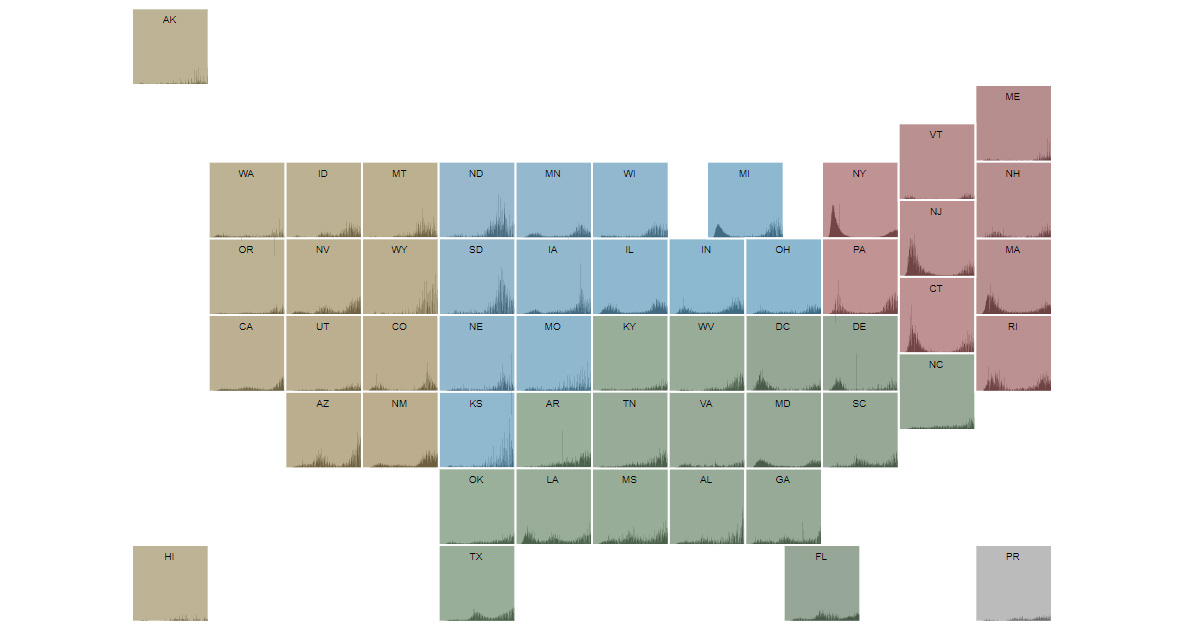
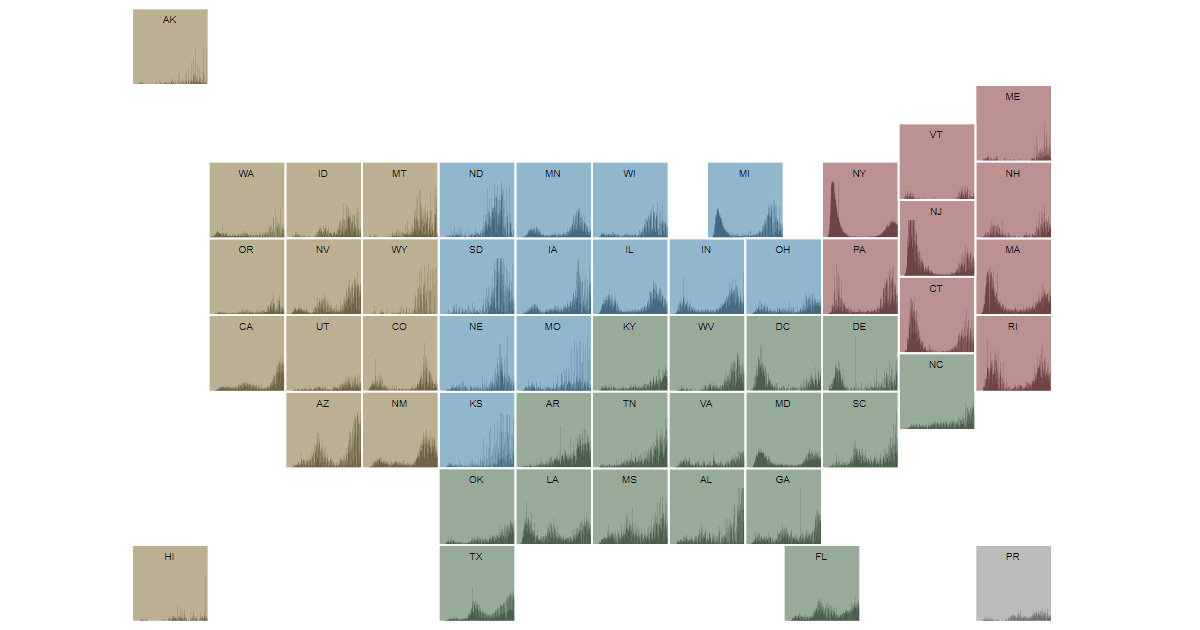
updated max capita calculation

diff --git a/statelayout.js b/statelayout.js
@@ -236,14 +236,29 @@ class StateLayout {
 
         this.maxCapita = 0;
 
-        for (const state in this.data) {
-            for (let i = 0; i < this.data[state].length; i++) {
-                if (this.data[state][i] && statePopulations[state]) {
-                    var maxCapita = this.y(this.data[state][i])/statePopulations[state];
-                    this.maxCapita = Math.max(this.maxCapita, maxCapita);
-                }
-            }
-        }
+        console.log("this.data", this.data);
+
+        //this.maxCapita = d3.max(Object.keys(this.data).map(key => IQRHigh(this.data[key].map(d => d.deaths / statePopulations[key]))))
+
+        this.maxCapita = d3.max(Object.keys(this.data).map(key => highOutlierCutoff(this.data[key].map(d => d.deaths / statePopulations[key]))))
+
+        //this.maxCapita = 0.00003
+
+        console.log(this.maxCapita)
+
+        // let perCapitaData = []
+
+        // for (const state in this.data) {
+        //     for (let i = 0; i < this.data[state].length; i++) {
+        //         if (this.data[state][i] && statePopulations[state]) {
+        //             var maxCapita = this.y(this.data[state][i])/statePopulations[state];
+        //             this.maxCapita = Math.max(this.maxCapita, maxCapita);
+        //             perCapitaData.push(maxCapita)
+        //         }
+        //     }
+        // }
+
+        
 
         this.draw();
     }
@@ -357,7 +372,10 @@ class StateLayout {
         ]
 
         stateTileCoords.forEach(d => {
-            let yScale = d3.scaleLinear().domain([0, statePopulations[d.state]*this.maxCapita]).range([this.boxSize, 0])
+            let yScale = d3.scaleLinear()
+                .domain([0, statePopulations[d.state]*this.maxCapita])
+                .range([this.boxSize, 0])
+                .clamp(true)
 
             var chart = new AreaSubChart({
                 xScale: this.xScale,

diff --git a/helpers.js b/helpers.js
@@ -1,0 +1,20 @@
+const median = arr => {
+  const mid = Math.floor(arr.length / 2),
+    nums = [...arr].sort((a, b) => a - b);
+  return arr.length % 2 !== 0 ? nums[mid] : (nums[mid - 1] + nums[mid]) / 2;
+};
+
+const IQRHigh = arr => {
+    const mid = Math.floor(arr.length / 2);
+    const nums = [...arr].sort((a, b) => a - b);
+    const low_quarter = Math.floor(arr.length * .25);
+    const high_quarter = Math.floor(arr.length * .75);
+    const high_quartile = arr.length % 4 !== 0 ? nums[high_quarter] : (nums[high_quarter - 1] + nums[high_quarter]) / 2;
+    const low_quartile = arr.length % 4 !== 0 ? nums[low_quarter] : (nums[low_quarter - 1] + nums[low_quarter]) / 2;
+    const iqr = high_quartile - low_quartile;
+    return high_quartile + 1.5 * iqr;
+}
+
+const highOutlierCutoff = arr => {
+    return d3.mean(arr) + 2 * d3.deviation(arr)
+}

diff --git a/index.html b/index.html
@@ -34,6 +34,7 @@
     <img src="preview.png" style="display:none">
 
 </body>
+<script src='helpers.js'></script>
 <script src='statelayout.js'></script>
 <script src='linechart.js'></script>
 <script src='barchart.js'></script>
